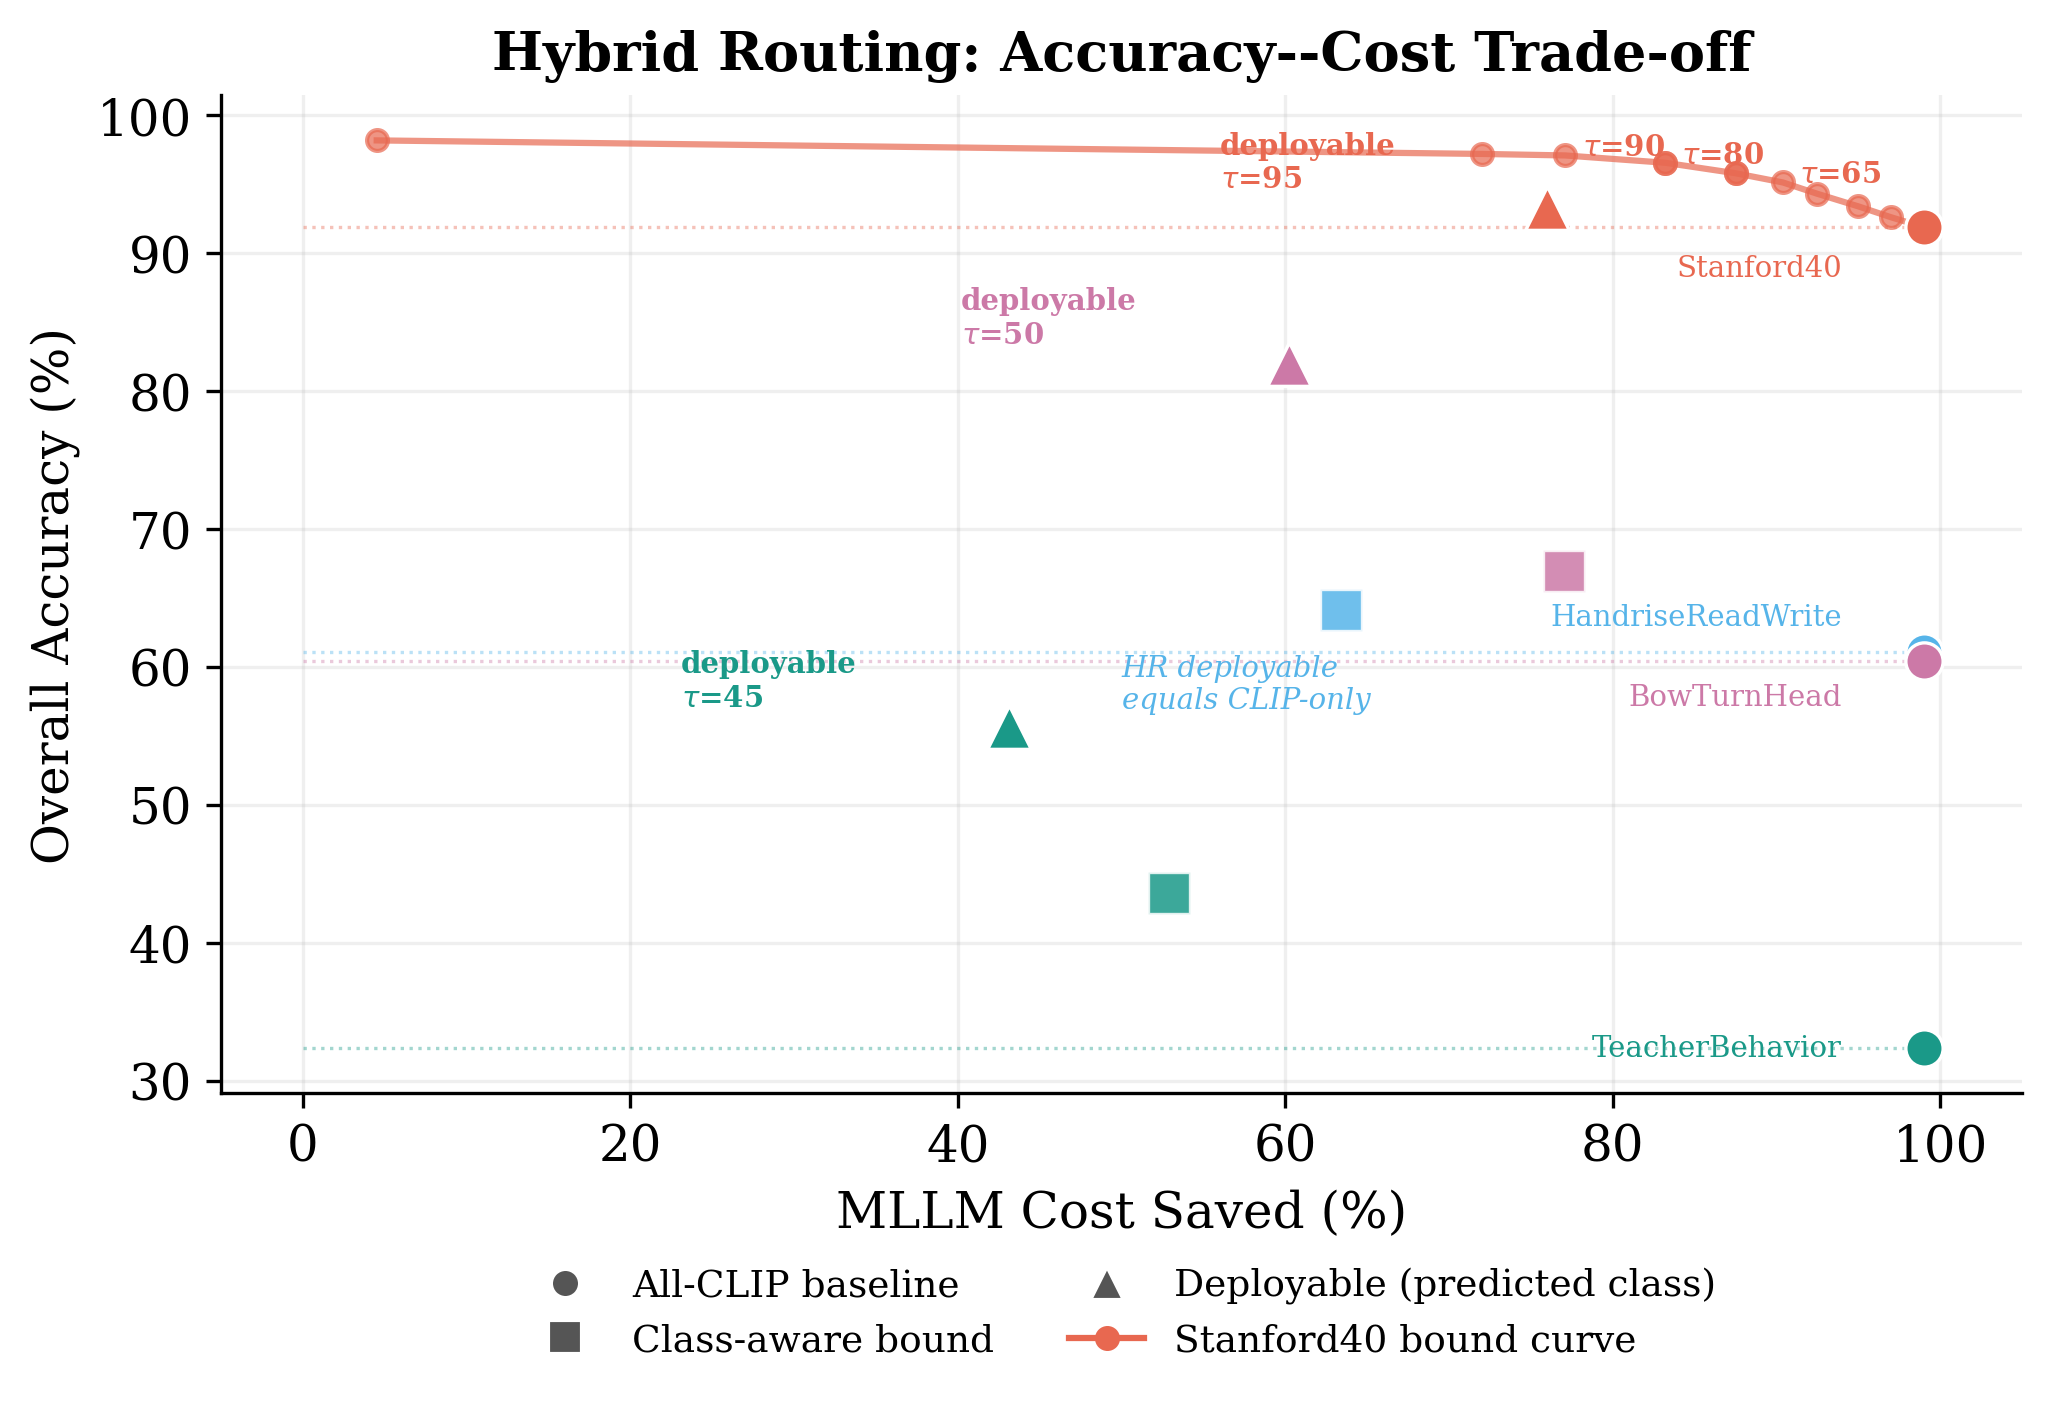
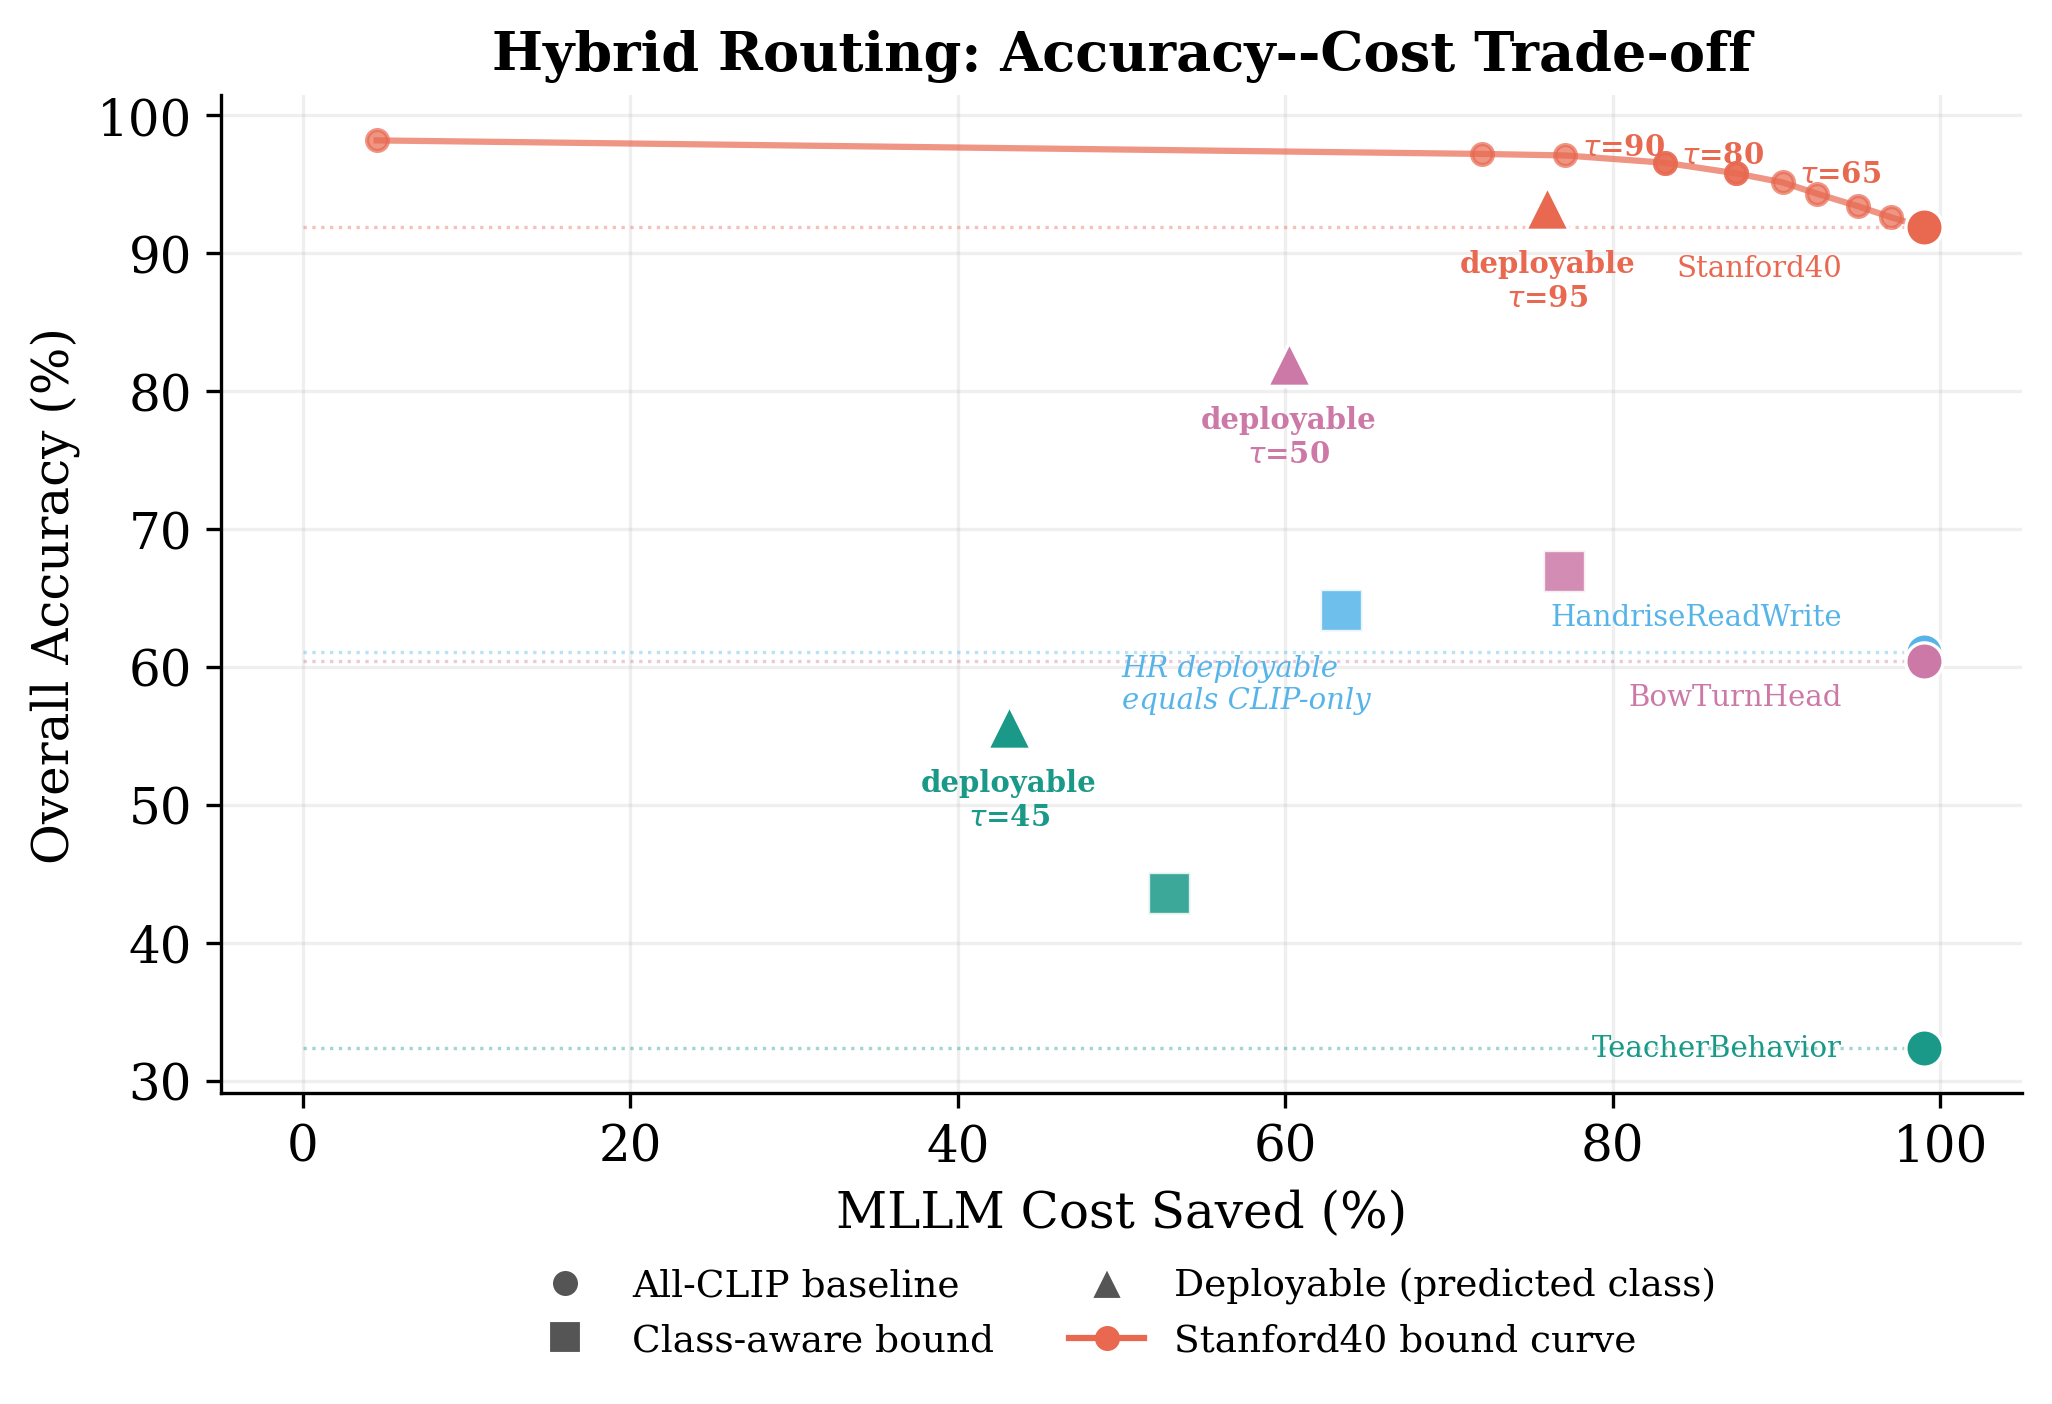
Fig 6: move deployable labels below the markers (the tau=95 label overlapped the Stanford40 curve)

diff --git a/paper/generate_figures.py b/paper/generate_figures.py
@@ -677,8 +677,8 @@ for name, hybrid_acc, cost_saved, color in datasets_hybrid:
 for label, ds, tau, acc, saved, color in deployable_pts:
     ax7.scatter(saved, acc, s=110, color=color, marker="^",
                 edgecolors="white", linewidth=0.8, zorder=7)
-    ax7.annotate(f"deployable\n$\\tau$={tau}", (saved - 20, acc + 1.5),
-                 fontsize=7, color=color, fontweight="bold")
+    ax7.annotate(f"deployable\n$\\tau$={tau}", (saved, acc - 3.0),
+                 fontsize=7, color=color, fontweight="bold", ha="center", va="top")
 
 # HandriseReadWrite deployable optimum = CLIP-only; annotate
 ax7.annotate("HR deployable\nequals CLIP-only", (50, 57),
